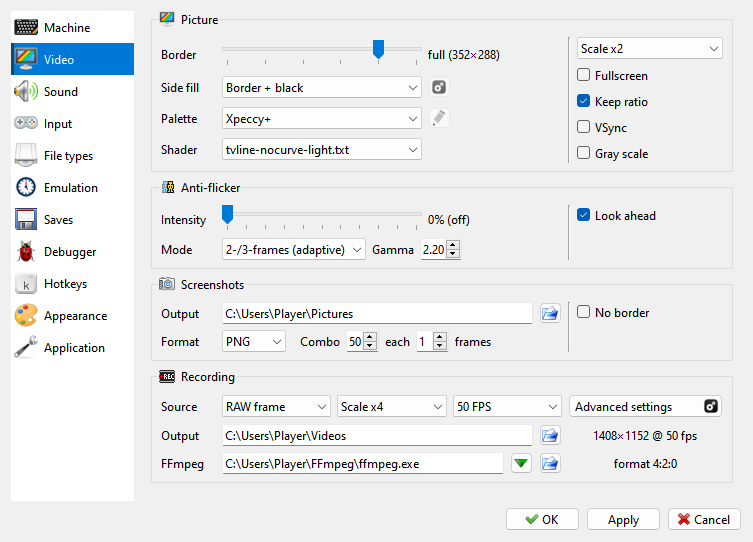
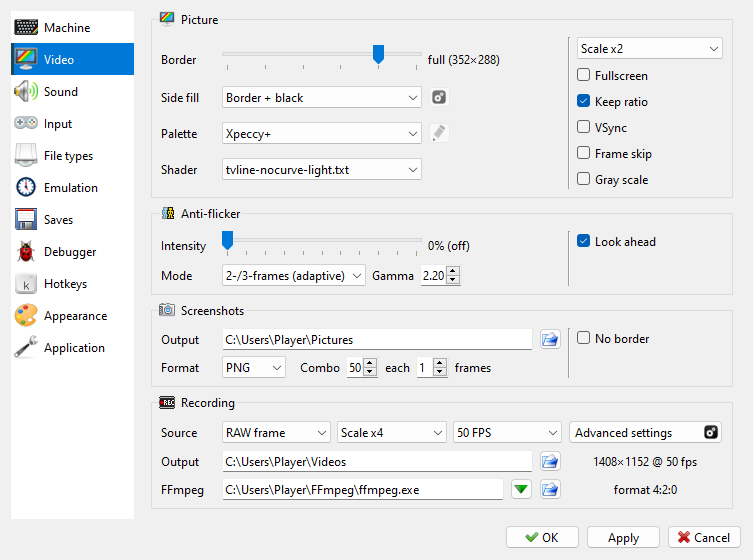
manual: Frame skip on the Video page

diff --git a/docs/manual/options-video.md b/docs/manual/options-video.md
@@ -9,10 +9,10 @@ The page has four groups:
 
 - **Picture** - **Border**, **Side fill**, **Palette** with the {icon}`edit` button for
   the **Palette Editor**, **Shader**, and on the right the window scale
-  (**Scale x1** to **Scale x6**), **Fullscreen**, **Keep ratio**, **VSync** and **Gray scale**.
-  The scale, **Fullscreen**, **Keep ratio**, **Side fill**, the palette and the shader are
-  the same settings as in the **View** menu; see [View menu](view.md). For **VSync** see
-  [VSync](#vsync).
+  (**Scale x1** to **Scale x6**), **Fullscreen**, **Keep ratio**, **VSync**, **Frame skip**
+  and **Gray scale**. The scale, **Fullscreen**, **Keep ratio**, **Side fill**, the palette
+  and the shader are the same settings as in the **View** menu; see [View menu](view.md).
+  For **VSync** see [VSync](#vsync), for **Frame skip** see [Frame skip](#frame-skip).
 - **Anti-flicker** - see [Anti-flicker](#anti-flicker).
 - **Screenshots** - see [Screenshots](#screenshots).
 - **Recording** - video recording through FFmpeg. See [Recording](#recording).
@@ -80,6 +80,28 @@ machine on a 60 Hz screen moves as unevenly as it would on a 60 Hz television.
   each frame when it is ready, so **VSync** has nothing to add there; leave it off. On macOS
   the machine keeps its own rate on such a screen.
 - On Linux **VSync** needs OpenGL and takes effect after a restart.
+
+## Frame skip
+
+```{index} Frame skip, slow computer
+```
+
+**Frame skip** in the **Picture** group is for a computer too slow for the machine it runs.
+While the machine falls behind its own speed, a frame is now and then left undrawn: the
+machine runs it all the same, only the picture is not made, which takes much less time. The
+machine and its sound keep their speed, and the picture changes a little less often. It is
+off by default.
+
+- At most one frame in three is left undrawn, so a sprite that flickers on every other frame
+  still shows both of its pictures.
+- While the computer keeps up, every frame is drawn.
+- Every frame is drawn while a video is recorded, with run-ahead (see
+  [Input lag](options-emulation.md#input-lag)), in the debugger, and while a breakpoint may
+  stop the machine.
+
+When the machine runs well under its frame rate for a few seconds at normal speed and
+**Frame skip** is off, Xpeccy+ offers to turn it on. **Not Now** asks again on the next
+start, **Don't Ask Again** never.
 
 ## Anti-flicker
 
